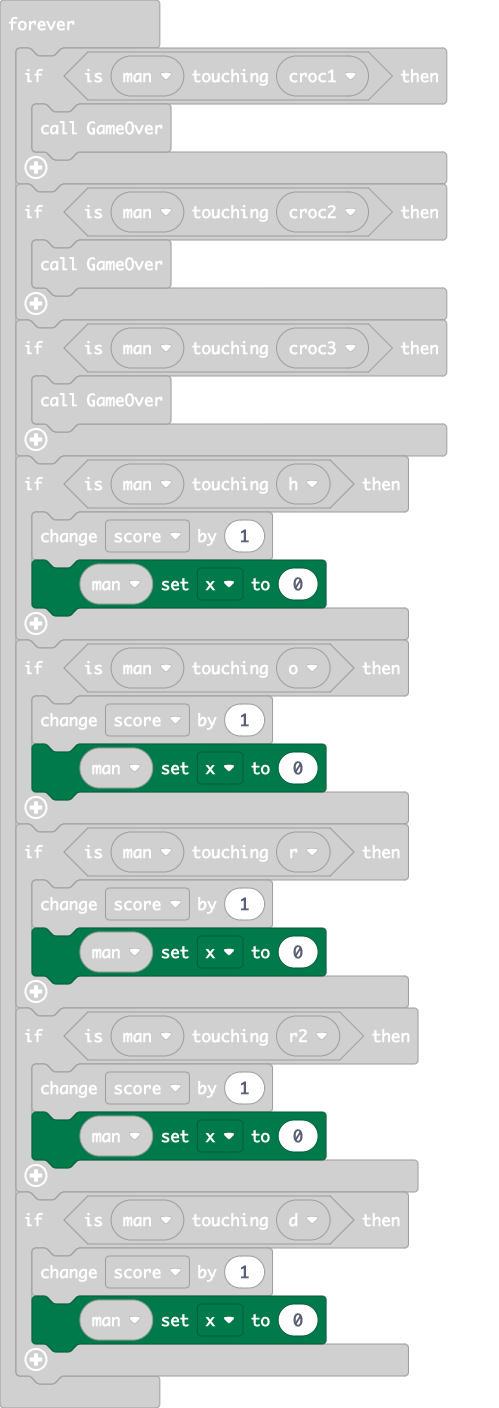
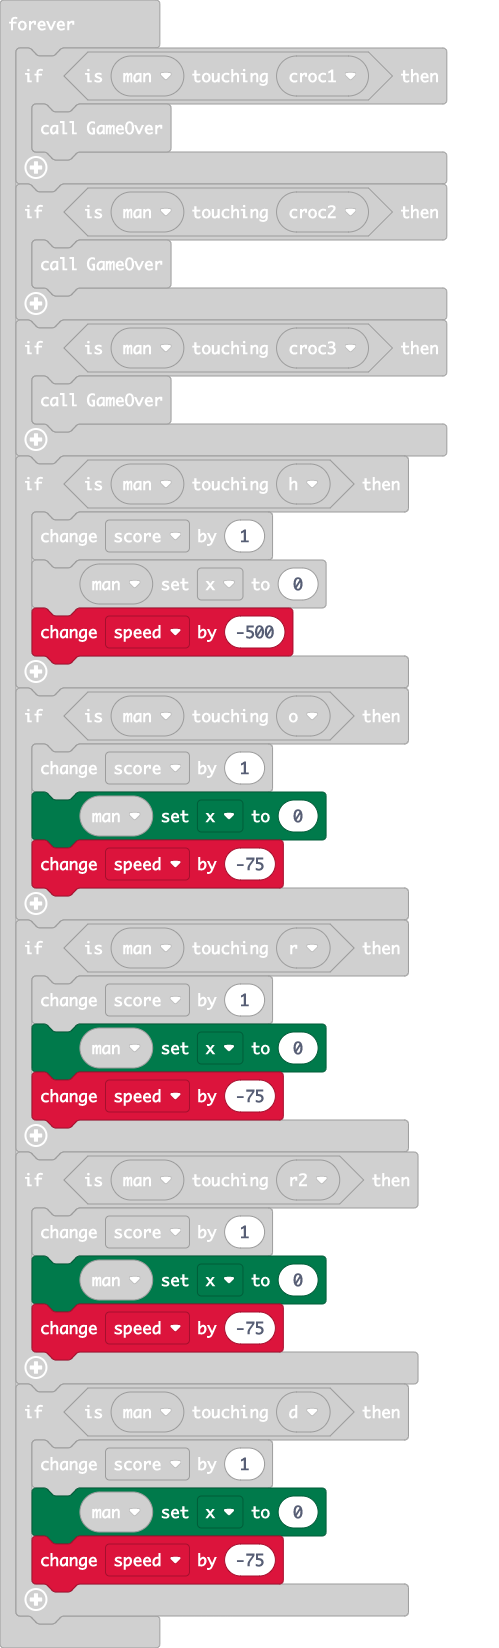
Update pxt.json, main.blocks, main.ts

diff --git a/main.ts b/main.ts
@@ -93,21 +93,26 @@ basic.forever(function () {
     if (man.isTouching(h)) {
         score += 1
         man.set(LedSpriteProperty.X, 0)
+        speed += -500
     }
     if (man.isTouching(o)) {
         score += 1
         man.set(LedSpriteProperty.X, 0)
+        speed += -75
     }
     if (man.isTouching(r)) {
         score += 1
         man.set(LedSpriteProperty.X, 0)
+        speed += -75
     }
     if (man.isTouching(r2)) {
         score += 1
         man.set(LedSpriteProperty.X, 0)
+        speed += -75
     }
     if (man.isTouching(d)) {
         score += 1
         man.set(LedSpriteProperty.X, 0)
+        speed += -75
     }
 })
